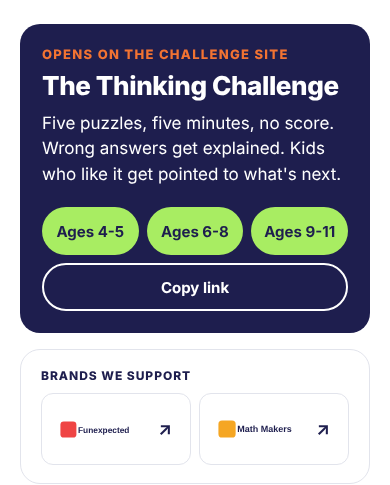
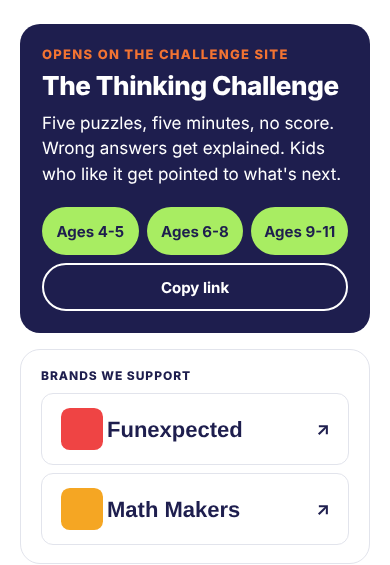
Brands grid: 220px tile minimum, one tile per row on phones
Claude-Session: https://claude.ai/code/session_014MUyfkGxqueB3tLtV9etXy

diff --git a/app/globals.css b/app/globals.css
@@ -54,7 +54,7 @@ h1,h2,h3,p{margin:0}
 .challenge-stack{display:flex;flex-direction:column;gap:16px}
 .brands{border:1px solid var(--line);border-radius:20px;padding:18px 20px;display:flex;flex-direction:column;gap:10px}
 .brands-label{margin:0;font-size:12px;font-weight:800;letter-spacing:.08em;text-transform:uppercase}
-.brands-grid{display:grid;grid-template-columns:repeat(auto-fit,minmax(min(100%,140px),1fr));gap:8px}
+.brands-grid{display:grid;grid-template-columns:repeat(auto-fit,minmax(min(100%,220px),1fr));gap:8px}
 .brand{display:flex;justify-content:space-between;align-items:center;min-height:72px;padding:12px 18px;border-radius:12px;background:#fff;border:1px solid var(--line);color:var(--ink);text-decoration:none;transition:border-color .15s}
 .brand:hover{border-color:var(--ink);color:var(--ink)}
 .brand img{display:block;height:44px;width:auto;max-width:calc(100% - 32px);object-fit:contain;object-position:left;mix-blend-mode:multiply}

diff --git a/docs/STATUS.md b/docs/STATUS.md
@@ -23,7 +23,7 @@ Running record of what is done, what is open, and decisions made. Updated in eac
 - Task B, games backend: games now carry facts (age range, minutes, players, cost, offline, no reading, platforms, skills, feels like, when, moments, show on) and lib/derive.ts turns them into filters, badges, the "Builds" line and sort order. filterOption documents and sanity/groups.ts are gone. New skill and whenOption documents. Spreadsheet import at scripts/import-games.mts. Seed rewritten to the new model. Studio lists Games, Teacher moments, Skills, When options.
 
 - 2026-10-19: Vercel is connected and live. Production domain: https://thinkinggames-web.vercel.app/. Main deploys on every merge. The Sanity webhook points to /api/revalidate on that domain, so a publish in Studio goes live in seconds without a redeploy. **To check a deploy, fetch the production domain and look at what it serves; do not rely on GitHub commit statuses or check runs** (Vercel posts none on this repository).
-- 2026-10-26: "Brands we support" panel (Teachers Page v2 and Parents Library in Claude Design), directly under the Challenge banner on both pages, 16px below it. New `brand` document (name, logo, URL, a show switch and an order per page), listed in Studio as "Brands we support" under Games. `components/BrandsPanel.tsx`: a bordered panel with the label and an auto-fit grid of logo tiles (min 140px), each a link that opens in a new tab, labelled "{name} (opens in new tab)", with an aria-hidden ↗. Each page queries its own brands (showOnTeachers / teachersOrder, showOnParents / parentsOrder) under the existing 'sanity' tag. The panel is hidden when the page has no brands, and a brand without a logo or URL is left out, so a half-filled brand never shows a broken tile. Seeded in production: Math Makers (Teachers 1, Parents 2, https://www.ululab.com, the Ululab developer site), Math Jams (Teachers 2, URL left empty: no official site could be confirmed), Funexpected (Parents 1, https://funexpectedapps.com). No logos yet, so the panel stays hidden on both pages until the logos (and the Math Jams URL) are added in Studio. Checked at 360, 390 and 1280px with stand-in logos: no horizontal scroll, 72px tiles. At 360px each tile takes a full row; at 390px two tiles share a row and a wide logo is scaled down to fit its 80px box. Screenshots in docs/screenshots/brands/. The design files in design-handoff/ were not updated (no design export was attached).
+- 2026-10-26: "Brands we support" panel (Teachers Page v2 and Parents Library in Claude Design), directly under the Challenge banner on both pages, 16px below it. New `brand` document (name, logo, URL, a show switch and an order per page), listed in Studio as "Brands we support" under Games. `components/BrandsPanel.tsx`: a bordered panel with the label and an auto-fit grid of logo tiles (min 220px, changed from 140px the same day so phones get one tile per row), each a link that opens in a new tab, labelled "{name} (opens in new tab)", with an aria-hidden ↗. Each page queries its own brands (showOnTeachers / teachersOrder, showOnParents / parentsOrder) under the existing 'sanity' tag. The panel is hidden when the page has no brands, and a brand without a logo or URL is left out, so a half-filled brand never shows a broken tile. Seeded in production: Math Makers (Teachers 1, Parents 2, https://www.ululab.com, the Ululab developer site), Math Jams (Teachers 2, URL left empty: no official site could be confirmed), Funexpected (Parents 1, https://funexpectedapps.com). No logos yet, so the panel stays hidden on both pages until the logos (and the Math Jams URL) are added in Studio. Checked at 360, 390 and 1280px with stand-in logos: no horizontal scroll, 72px tiles. With the 220px minimum, phones (360 and 390px) get one tile per row and desktop gets as many 220px-plus columns as fit. Screenshots in docs/screenshots/brands/. The design files in design-handoff/ were not updated (no design export was attached).
 - Teachers game card, option 2d (Teachers Page v2 in Claude Design), for moment rows and search results alike: the card is a column. A top row puts the 16:10 thumbnail (clamp(112px, 28%, 132px)) beside the name and subtitle, centred; under it, full width, the "Builds …" / "Good for …" line; then a footer with the badges and a solid "Open game ↗" button (ink, orange on hover, 44px tall). The footer wraps: the badges take a 220px basis, so when the card is wide enough for both (about 350px inside the card, every desktop card) the button sits on the right of the badges; when it is narrower (every phone) the badges get the full width and the button gets its own full-width row below them. No media query is involved. The rows grid now fits two cards from 420px each (was 500px). At 640px and below the thumbnail is 112px (was 88px); the old full-width-button rule is gone, since the wrap does that job. Checked at 360, 390, 430 and 1280px: no horizontal scroll, the badges span the full card width on phones, and the button fills its row with no empty space beside it. Screenshots in docs/screenshots/c1-mobile/ updated. The design file in design-handoff/ was not updated in this round (no design export was attached).
 - Real game data, part 1 (code): minutes are now one of "5", "10", "20", "30+" (strings, radio in Studio for the shared value and both overrides). The Minutes filter has those four options and each game matches its own value only; the badge reads "{value} min". `scripts/migrate-minutes.mts` converts stored numbers (10 → "10"). The import accepts only those four values, can read the final games list (`--sheet=Sheet2` of `scripts/games-final.xlsx`) as an update-only source, and turns every card image into a 1600×1000 JPG (centre crop, quality 85, under 1 MB) with sharp, taking Drive links. The Minutes columns of the template sheets are a 5,10,20,30+ dropdown and the Guide tab says so. See "Real data import notes".
 - The footer is pinned to the bottom of the screen on pages shorter than it (the 404 page everywhere, the home page on very tall screens). Taller pages render pixel-identical to before.
